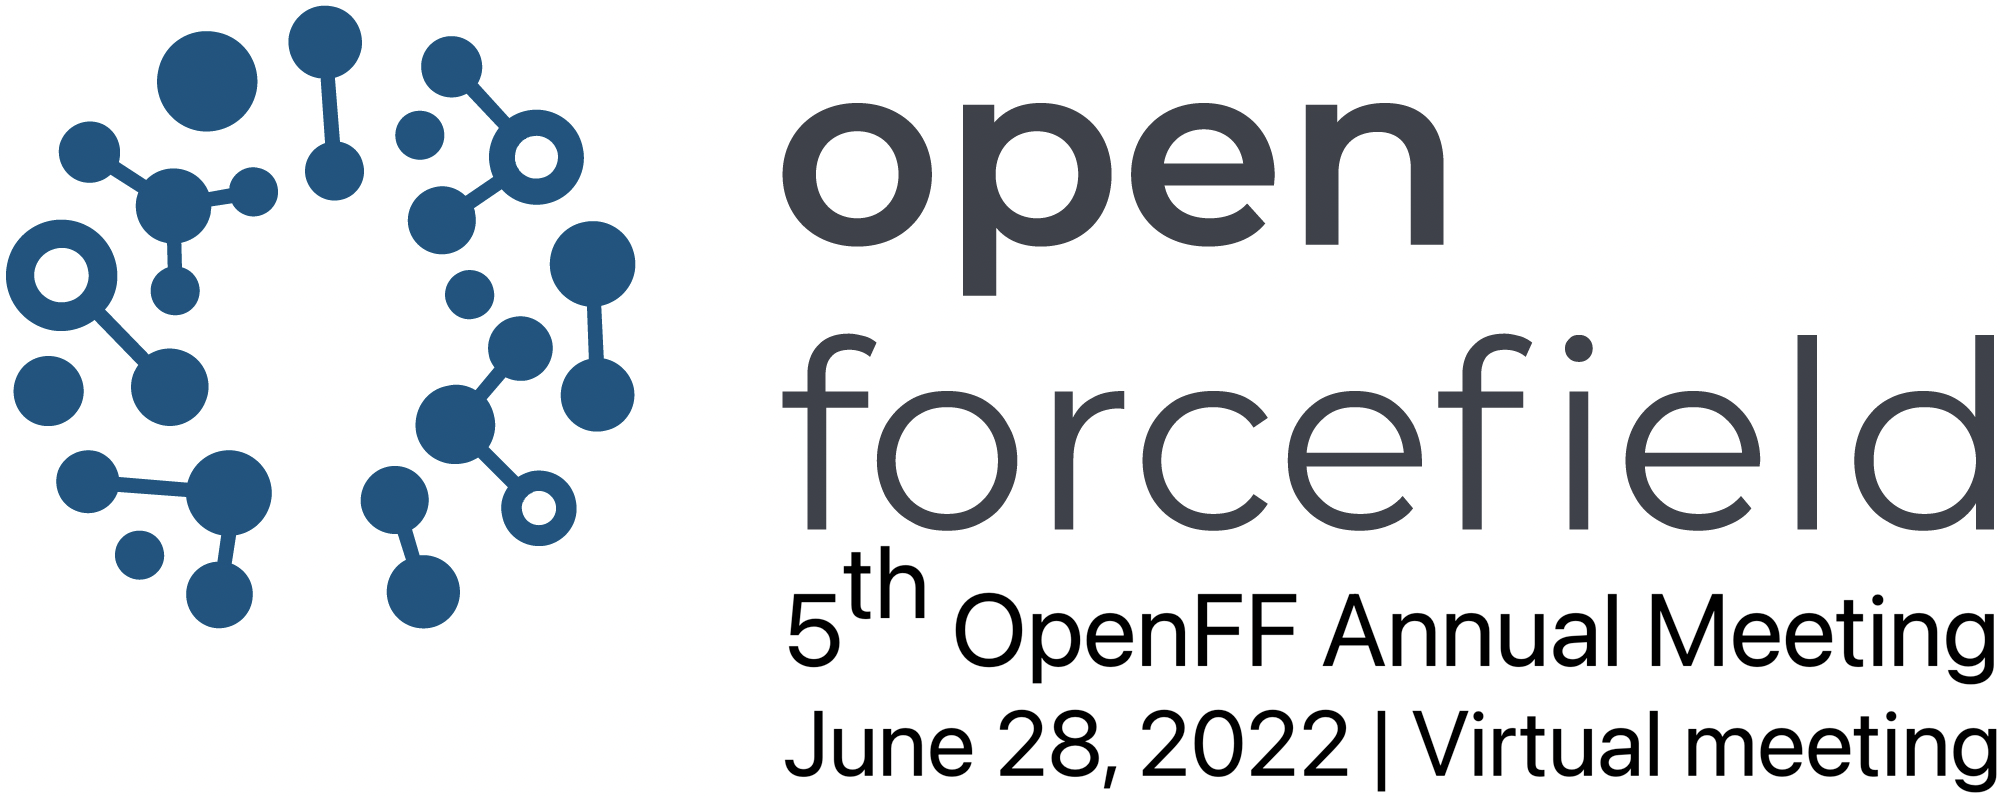
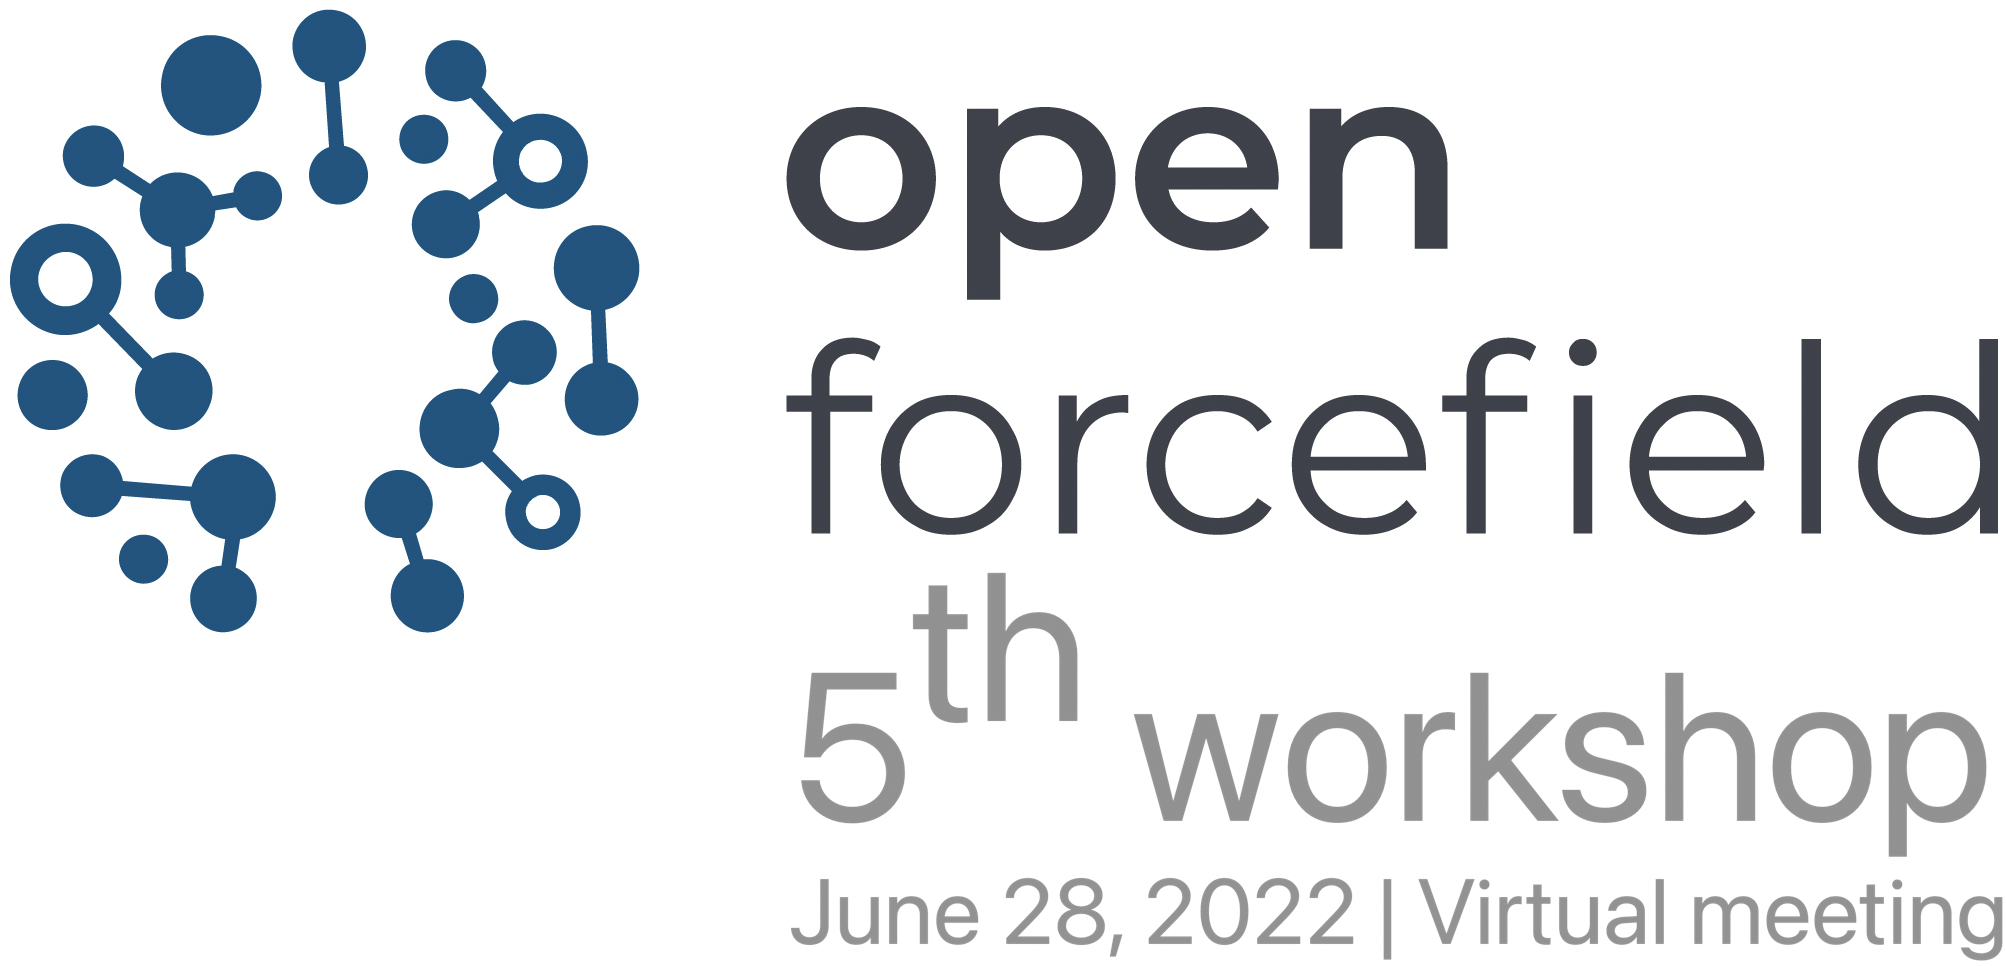
workshop-edit

diff --git a/content/community/news/general/5th-openff-workshop-2022.md b/content/community/news/general/5th-openff-workshop-2022.md
@@ -7,7 +7,7 @@ draft: false
 description: "The Fifth Open Force Field Workshop (virtual) held on June 28, 2022"
 weight: 10
 author: "Diego Nolasco"
-thumb: "5th-openff-workshop-2.png"
+thumb: "5th-openff-workshop.png"
 ---
 
 <br>
